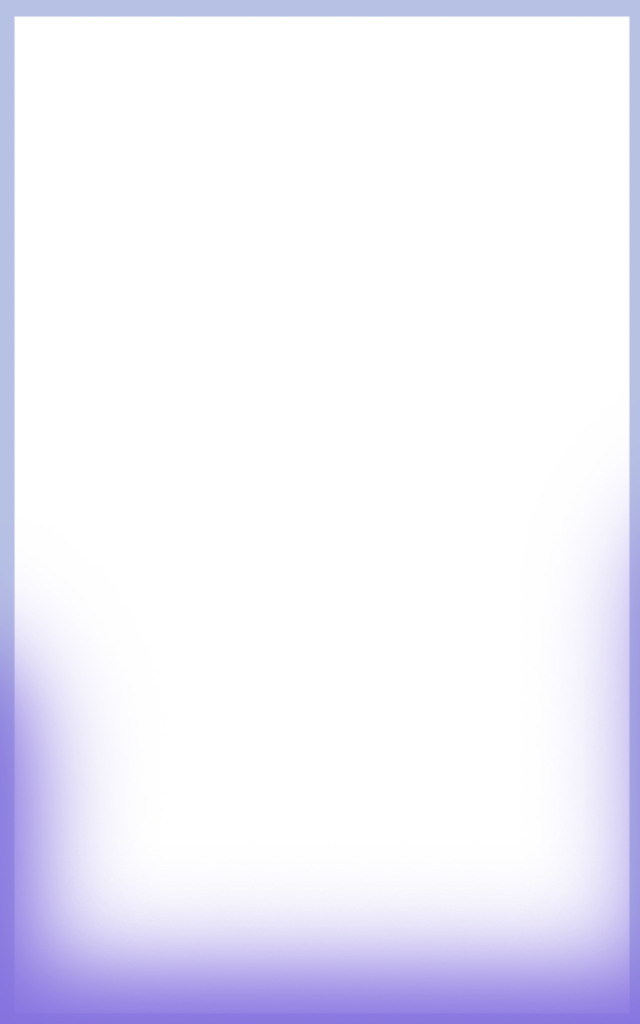
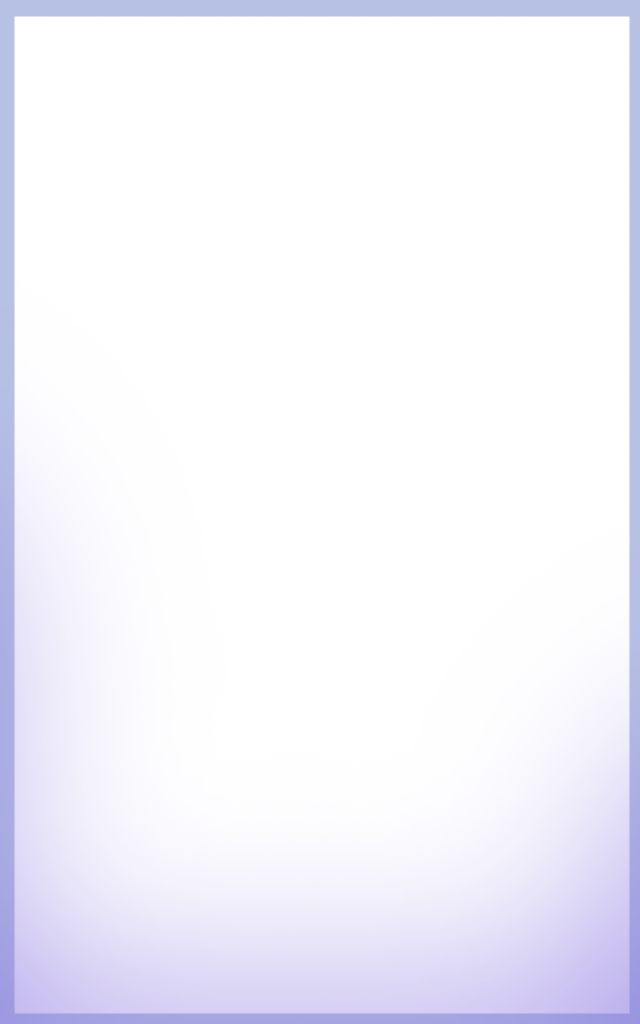
p

Changed region(s): [[0.0, 0.6562, 1.0, 1.0], [0.9375, 0.5312, 1.0, 0.75]]

diff --git a/jampingan.css b/jampingan.css
@@ -8,5 +8,6 @@ body{
 }
 
 #board{
-    background-image: url(inn);
+    background-image:url(/inner-bg.png);
+    background-size: cover;
 }
